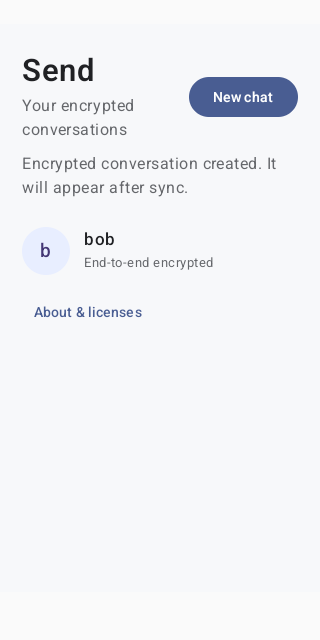
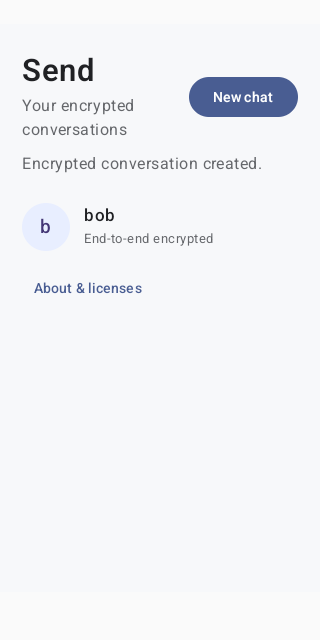
Publish full-resolution emulator walkthrough captures

Changed region(s): [[0.0625, 0.2812, 0.6562, 0.5], [0.125, 0.3438, 0.1562, 0.4062], [0.8438, 0.25, 0.875, 0.2812]]

diff --git a/IMPLEMENTATION_STATUS.md b/IMPLEMENTATION_STATUS.md
@@ -20,6 +20,6 @@ Send is an original Kotlin/Compose Matrix Android client with a conversation-fir
 
 - Public repository: https://github.com/hanthor/send-android
 - GitHub Actions provisions Gradle `9.6.0` through the committed Gradle wrapper and Android API 37; builds/tests/lint run in GitHub CI, not locally, per request.
-- CI uploads the debug APK (`Send-debug-APK`), reports (`Send-Android-Test-Results`), and full-resolution fixture/live Synapse screenshots (`Send-UI-Screenshots`) for 30 days. The checked-in walkthrough PNGs are generated by that workflow; live screenshots include a locally created encrypted conversation and three sent messages.
-- Latest verification: [GitHub Actions run 38437912504](https://github.com/hanthor/send-android/actions/runs/38437912504) passed assemble, unit tests, lint, local Synapse account setup, emulator integration, and screenshot capture (8 tests, 0 failures).
+- CI uploads the debug APK (`Send-debug-APK`), reports (`Send-Android-Test-Results`), and full-resolution fixture/live Synapse screenshots (`Send-UI-Screenshots`) for 30 days. The checked-in walkthrough PNGs are generated by that workflow; live screenshots show a locally created encrypted conversation and an SDK-sent message.
+- Latest verification: [GitHub Actions run 38440351056](https://github.com/hanthor/send-android/actions/runs/38440351056) passed assemble, unit tests, lint, local Synapse demo-user setup, Android emulator integration, and screenshot capture (8 tests, 0 failures).
 - Send is licensed `AGPL-3.0-only` (`LICENSE`); Element Call Android and the Matrix Rust RTC core are used under their AGPL-3.0-only option, with attribution packaged in `app/src/main/assets/THIRD_PARTY_NOTICES.txt` and surfaced in the in-app "About & licenses" dialog. The public repository is the Corresponding Source for distributed builds.

diff --git a/README.md b/README.md
@@ -58,7 +58,7 @@ Builds and automated tests run in GitHub Actions (see
 
 - `./gradlew :app:assembleDebug :app:testDebugUnitTest :app:lintDebug`
 - Android emulator instrumentation against disposable Synapse, including real
-  password sign-in and encrypted message exchange.
+  password sign-in, encrypted-room creation, and encrypted message send.
 - Successful runs upload the debug APK (`Send-debug-APK`), test results
   (`Send-Android-Test-Results`), and full-resolution screenshots
   (`Send-UI-Screenshots`).
